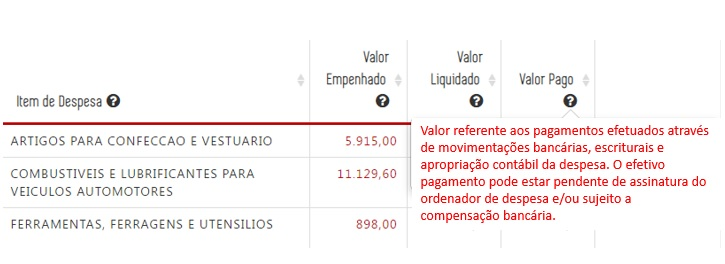
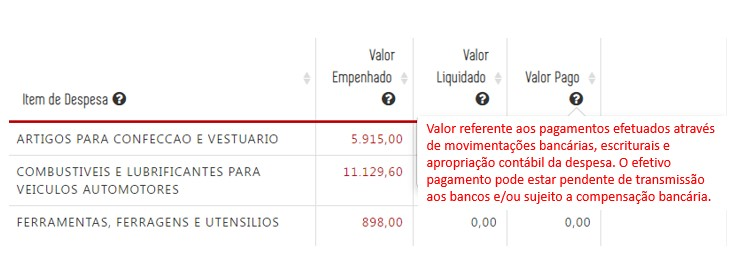
Altera especificação

diff --git a/espec011_valor_pago/espec011_valor-pago.md b/espec011_valor_pago/espec011_valor-pago.md
@@ -1,34 +1,34 @@
 
 # Visão Geral da Intervenção
 
-Essa demanda visa adequar no Portal da Transparência a regra de divulgação dos dados de pagamento, mais especificamente, a inclusão da situação da ordem de pagamento no formulário de detalhamento da despesa, alteração do nome das tabelas e alteração da conceito do valor pago das consultas de Despesa, Diárias e Restos a Pagar.
+Essa demanda visa adequar no Portal da Transparência a regra de divulgação dos dados de pagamento, mais especificamente, alteração do formulário de detalhamento (opção pagamento), alteração do nome das tabelas e alteração da conceito dos _tooltips_ das consultas de despesa, restos a pagar e diárias.
 
-A alteração também será realizada na consulta de Convênios, e será alterada a regra de extração dos dados para a divulgação dos valores pagos.
+A alteração também será realizada na consulta de Convênios, e será alterada a regra de extração dos dados para a divulgação dos valores repassados.
 
 # Motivação / Contexto da Intervenção
 
 De acordo com as regras de registro de Ordem de Pagamento (OP) no SIAFI é possível ocorrer diversas situações identificadas no armazém BO para o campo Situação Ordem de Pagamento, que são:
 
-1. Paga
-2. Acatada pelo banco
-3. Pendente de transmissão aos bancos
-4. Sujeita a compensação bancária
-5. Quitada
-6. Cancelada
-7. Cancelada pelo operador
-8. Cancelada -TED
-9. Transmitida ao banco - Pendente de confirmação
-10. Cancelada sem cancelamento do IRRP retido _TED_
+* Paga
+* Acatada pelo banco
+* Pendente de transmissão aos bancos
+* Sujeita a compensação bancária
+* Quitada
+* Cancelada
+* Cancelada pelo operador
+* Cancelada -TED
+* Transmitida ao banco - Pendente de confirmação
+* Cancelada sem cancelamento do IRRP retido _TED_
 
-Atualmente, o Portal de Transparência apresenta os dados relativos a OP utilizando como variável para divulgação do valor pago a ___Data de Registro___ no SIAFI sem considerar a situação da ordem de pagamento.
+Atualmente, o Portal de Transparência apresenta nas consultas de despesa, diárias e restos a pagar os dados relativos a OP utilizando como variável para divulgação do valor pago a ___Data de Registro___ no SIAFI sem considerar a situação da ordem de pagamento.
 
-Nesse sentido o Portal divulga uma despesa como paga, mas que ainda não percorreu todas as etapas de pagamento, ou seja, assinatura pelo ordenador de despesa, transmissão ao banco e a compensação bancária, o que gera dúvidas para os credores sobre o efetivo depósito dos valores registrados no Portal como pagos.
+Nesse sentido o Portal divulga uma despesa como paga, mas que ainda não percorreu todas as etapas de pagamento, como por exemplo, assinatura pelo ordenador de despesa, transmissão ao banco e a compensação bancária, o que gera dúvidas para os credores sobre o efetivo depósito dos valores registrados no Portal como pagos.
 
-Com o objetivo de melhorar a divulgação de dados sobre pagamentos, sugere-se a alteração no formulário de detalhamento da despesa (opções Empenho e Pagamento) para que apresente a situação da ordem de pagamento, respeitado o prazo de atualização de D+1 estabelecido pelo Decreto Federal n° 7.185, de 2010.
+___Observação___
 
-Além dessa alteração, sugere-se a alteração na descrição do valor pago que consta no glossário interativo das colunas "Valor pago" das consultas de Despesa, Diárias e Restos a Pagar, para que seja esclarecido a sociedade as situações que compõem o campo valor pago.
+Conforme informado pela Diretoria Central de Governança do Sistema - SEF o campo _[Situação da ordem de pagamento- descrição]_ do armazém SIAFI foi tratado em 2019 para permitir que a informação seja extraída de apenas uma [tabela](static/situacao-ordem-pagamento.docx).
 
-``Atualmente, o glossário do portal e o tool tip trazem a seguinte definição: valor referente aos pagamentos efetuados através de movimentações bancárias, escriturais e apropriação contábil da despesa.``
+Ainda segundo essa Diretoria, o campo _[valor pago pendente]_ (campo que será utilizado na nova regra da consulta de convênios de saída) são tratadss as situações: transmitida ao banco – pendente de Confirmação e pendente de transmissão aos bancos.
 
 # Especificação
 
@@ -36,20 +36,18 @@ Além dessa alteração, sugere-se a alteração na descrição do valor pago qu
 
 __1. Alterar descrição do campo "Valor Pago" no glossário interativo__
 
-Alterar a descrição do _tool tip_ da coluna valor pago que passará a exibir o seguinte texto ao passar o cursor sobre o ponto de interrogação:
+Alterar a descrição do _tooltip_ da coluna Valor Pago:
 
-* Valor Pago: Valor referente aos pagamentos efetuados através de movimentações bancárias, escriturais e apropriação contábil da despesa. O efetivo pagamento pode estar pendente de assinatura do ordenador de despesa e/ou sujeito a compensação bancária.
+* __Valor Pago:__ Valor referente aos pagamentos efetuados através de movimentações bancárias, escriturais e apropriação contábil da despesa. O efetivo pagamento pode estar pendente de transmissão ao banco e/ou sujeito a compensação bancária.
 
 ![](static/valor_pago.jpg)
-
-___Observação___: Essas alterações aplicam-se a toda base de dados da consulta de Despesas e Diárias disponíveis no Portal da Transparência.
 
 
 __2. Alterar o texto das colunas Data e Número de Documento__
 
-Alterar o texto e descrição das [colunas] "DATA" e "NUMERO DO DOCUMENTO" das consultas de Despesas e Diárias.
+Alterar o texto e descrição das colunas "Data" e " Número do documento":
 
- __Situação 1:__ ao clicar no [Valor Empenhado](http://www.transparencia.mg.gov.br/despesa-estado/despesa/despesa-orgaos/2020/01-01-2020/31-12-2020/4009/1910/457/20/42/1264408/2771/empenhado), o próximo nível deverá apresentar a informação:
+ __Situação 1:__ ao clicar em [Valor Empenhado](http://www.transparencia.mg.gov.br/despesa-estado/despesa/despesa-orgaos/2020/01-01-2020/31-12-2020/4009/1910/457/20/42/1264408/2771/empenhado), o próximo nível deverá apresentar a informação:
 
   - Data de Registro (no lugar de Data): Data de Registro do documento de empenho no SIAFI (Sistema Integrado de Administração Financeira).
 
@@ -57,16 +55,13 @@ Alterar o texto e descrição das [colunas] "DATA" e "NUMERO DO DOCUMENTO" das c
 
   ![](static/empenho.jpg)
 
+__Situação 2:__ ao clicar em [Valor Liquidado](http://www.transparencia.mg.gov.br/despesa-estado/despesa/despesa-orgaos/2020/01-01-2020/31-12-2020/4009/1910/457/20/42/1264408/2771/liquidado), o próximo nível deverá apresentar a informação:
 
-__Situação 2:__ ao clicar no [Valor Liquidado](http://www.transparencia.mg.gov.br/despesa-estado/despesa/despesa-orgaos/2020/01-01-2020/31-12-2020/4009/1910/457/20/42/1264408/2771/liquidado), o próximo nível deverá apresentar a informação:
+  - Data do Registro (no lugar de Data): Data de registro do documento de liquidação no SIAFI (Sistema Integrado de Administração Financeira).
 
-  - Data do Registro (no lugar de Data): Data de registro da liquidação no SIAFI (Sistema Integrado de Administração Financeira).
+  ![](static/liquidacao.jpg)
 
-  - Número da Liquidação (no lugar de Número Documento): Número de identificação do documento de  liquidação no SIAFI (Sistema Integrado de Administração Financeira);
-
-![](static/liquidacao.jpg)
-
-__Situação 3:__ ao clicar no [Valor Pago](http://www.transparencia.mg.gov.br/despesa-estado/despesa/despesa-orgaos/2020/01-01-2020/31-12-2020/4009/1910/457/20/42/1264408/2771/pago), o próximo nível deverá apresentar a informação:
+__Situação 3:__ ao clicar em [Valor Pago](http://www.transparencia.mg.gov.br/despesa-estado/despesa/despesa-orgaos/2020/01-01-2020/31-12-2020/4009/1910/457/20/42/1264408/2771/pago), o próximo nível deverá apresentar a informação:
 
   - Data de Registro (no lugar de Data): Data de registro da ordem de pagamento no SIAFI (Sistema Integrado de Administração Financeira).
 
@@ -74,74 +69,59 @@ __Situação 3:__ ao clicar no [Valor Pago](http://www.transparencia.mg.gov.br/d
 
 ![](static/pagamentos.jpg)
 
+__3. Alteração do Formulário de Detalhamento__
 
-___Observação___: Essas alterações aplicam-se a toda base de dados da consulta de Despesas e Diárias disponíveis no Portal da Transparência.
+Ao clicar no [Número do documento do Empenho, Número Documento Liquidação ou Número do Documento Pagamento](http://www.transparencia.mg.gov.br/despesa-estado/despesa/despesa-orgaos/2020/01-01-2020/31-12-2020/4009/1910/457/20/42/1264408/2771/empenhado/16/12589445/0/0), o próximo nível deverá apresentar a informação:
 
+* Substituir o texto "Data" para "Data Registro" no formulário de liquidação e pagamento (sem alteração na extração de dados no Armazém);
 
-Abaixo segue as consultas realizadas no armazém SIAFI para cada alteração sugerida.
-
-![](static/nomenclaturas.jpg)
-
-[Planilha Pagamentos](static/pagamentos_2019.xls)
-
-__3. Alteração do Formulário de Detalhamento de Despesa e Diárias__
-
-No formulário de detalhamento da consulta de despesa e diárias, opções de empenho e pagamento, serão alteradas as seguintes informações:
-
- __Situação:__ Ao clicar no [Número do documento do Empenho, Número Documento Liquidação ou Número do Documento Pagamento](http://www.transparencia.mg.gov.br/despesa-estado/despesa/despesa-orgaos/2020/01-01-2020/31-12-2020/4009/1910/457/20/42/1264408/2771/empenhado/16/12589445/0/0), o próximo nível deverá apresentar a informação:
-
-* Substituir o texto "Data" para "Data Registro" no formulário de pagamento (sem alteração na extração de dados no Armazém);
-
-* Incluir a coluna de "Data Pagamento" no formulário de pagamento (após a coluna data de registro).
+* Incluir a coluna de "Situação da Ordem de Pagamento" no formulário de pagamento (após a coluna data de registro).
 
 ![](static/formulario_emp_pag.jpg)
 
-
-__Observação__: Importante ressaltar que o portal deve realizar a atualização do campos [Situação da Ordem de Pagamento] diariamente, pois esse campo não é estático no decorrer do exercício podendo sofrer alterações constantes.
+_
 
 ## Consulta Restos a Pagar
 
-__1. Formulário de Detalhamento de Despesa__
+__1. Alterar descrição do campo "Valor Pago no Ano" no glossário interativo__
 
-No [Formulário de Detalhamento da Despesa](http://transparencia.mg.gov.br/despesa-estado/restos-a-pagar/restospagar-orgaos/2019/3853/546/42/20/3065/130/58/5933374) da Consulta de Restos a Pagar, será alterada a mesma informação já especificada para a consulta de Despesas e Diárias, que é:
+Alterar a descrição do _tooltip_ da coluna "valor pago no ano" da consulta de Restos a Pagar:
 
-1. Substituir o texto "Data" para "Data Registro" (sem alteração na extração de dados no Armazém);
-
-2. Incluir a coluna de "Data Pagamento" no formulário de pagamento (após a coluna data de registro).
-
-![](static/formulario_emp_pag.jpg)
-
-  __Observação__: Importante ressaltar que o portal deve realizar a atualização do campos [Situação da Ordem de Pagamento] diariamente, pois esse campo não é estático no decorrer do exercício podendo sofrer alterações constantes.
-
-__2. Alterar descrição do campo "Valor Pago no Ano" no glossário interativo__
-
-Alterar a descrição do _tooltip_ da coluna "valor pago no ano" da consulta de Restos a Pagar, que passará a exibir o seguinte texto ao passar o cursor sobre o ponto de interrogação:
-
-  - Valor Pago no Ano: Soma do valor de restos a pagar processados e não processados referentes aos pagamentos efetuados através de movimentações bancárias, escriturais e apropriação contábil da despesa. O efetivo pagamento pode estar pendente de assinatura do ordenador de despesa e/ou sujeito a compensação bancária.
+  - __Valor Pago no Ano:__ Soma do valor de restos a pagar processados e não processados referentes aos pagamentos efetuados através de movimentações bancárias, escriturais e apropriação contábil da despesa. O efetivo pagamento pode estar pendente de transmissão aos bancos e/ou sujeito a compensação bancária.
 
 ![](static/valorpagonoano.jpg)
 
+__2. Formulário de Detalhamento__
+
+No [Formulário de Detalhamento da Consulta de Restos a pagar](http://transparencia.mg.gov.br/despesa-estado/restos-a-pagar/restospagar-orgaos/2019/3853/546/42/20/3065/130/58/5933374) será alterada a mesma informação já especificada para a consulta de Despesas e Diárias, que é:
+
+1. Substituir o texto "Data" para "Data Registro" (sem alteração na extração de dados no Armazém);
+
+2. Incluir a coluna de "Situação da Ordem de Pagamento" no formulário de pagamento (após a coluna data de registro).
+
+![](static/formulario_emp_pag.jpg)
+
+
 ## Observações Gerais
 
-1. O campo [Situação da Ordem de Pagamento] no Portal deve refletir a mesma situação da OP que consta no Armazém. Como já mencionado, esse campo não é estático, podendo sofrer várias alterações no decorrer no ano. Nesse sentido, é necessário atualização diária dessa informação no Portal da Transparência.
+1. O campo [Situação da Ordem de Pagamento] no Portal deve refletir a mesma situação da OP que consta no Armazém. Conforme informado pela SEF, esse campo não é estático, podendo sofrer várias alterações no decorrer no ano.
 
 Campo a ser utilizado no Armazém:
 
 ![](static/situacao-op-siafi.jpg)
 
-
 ## Consulta Convênios de Saída
 
 __1. Alterar descrição do campo "Valor Repassado pelo Concedente/Órgão ou Entidade Estadual Parceiro" no glossário interativo__
 
-Alterar a descrição do _tooltip_ da coluna "valor Repassado pelo Concedente/Órgão ou Entidade Estadual Parceiro" da consulta de Convênios/Parcerias Saída de Recursos, que passará a exibir o seguinte texto ao passar o cursor sobre o ponto de interrogação:
+Alterar a descrição do _tooltip_ da coluna "valor Repassado pelo Concedente/Órgão ou Entidade Estadual Parceiro":
 
-  - __Valor Repassado pelo Concedente/Órgão ou Entidade Estadual Parceiro:__ Valor financeiro repassado pelo concedente/órgão ou entidade estadual parceiro ao convenente / Organização da Sociedade Civil (OSC) parceria, referente ao(s) convênios(s)/ parceria(s) firmado(s) entre as partes por meio de pagamento via SIAFI. Abrange o valor do concedente / órgão ou entidade estadual parceiro, das emendas parlamentares e outras fontes. O efetivo pagamento pode estar sujeito a compensação bancária.
+  * __Valor Repassado pelo Concedente/Órgão ou Entidade Estadual Parceiro:__ Valor financeiro repassado pelo concedente/órgão ou entidade estadual parceiro ao convenente / Organização da Sociedade Civil (OSC) parceria, referente ao(s) convênios(s)/ parceria(s) firmado(s) entre as partes por meio de pagamento via SIAFI. Abrange o valor do concedente / órgão ou entidade estadual parceiro, das emendas parlamentares e outras fontes. O efetivo pagamento pode estar sujeito a compensação bancária.
 
 ![](static/valorrepassadoalter.jpg)
 
 
-__2. Alterar Formulário de Detalhamento do Convênio__
+__2. Alterar Formulário de Detalhamento__
 
 Para obter o real valor repassado deve-se utilizar a fórmula: (Valor Pago Financeiro - Valor Pago pendente =  Valor repassado) conforme campos do armazém BO.
 
@@ -159,11 +139,3 @@ O Portal apresenta como repassado o valor total de R$ 35.000,00 no entanto, conf
 ![](static/convenio-op-1547-.png)
 
 Na extração dos dados do armazém para a divulgação do Valor Repassado pelo Concedente/Órgão ou Entidade Estadual Parceiro, será considerado para divulgação dos valores repassados o Valor Pago Financeiro menos o Valor Pago Pendente, nas segintes condições:
-
-
-# Sugestões
-
-Na especificação da consulta de Despesa foi sugerido acrescentar o campo [Situação da ordem de pagamento] no formulário de detalhamento.
-Outra hipótese pode ser a exibição das ordens de pagamento que apresentem apenas as situação definidas pela DTA, como por exemplo: Acatada pelo Banco, Sujeita a Compensação Bancária e Paga. Nesse caso, o Portal irá apresentar apenas as OPs que efetivamente foram pagas e/ou transmitidas ao banco.
-
-Assim não seria necessário a inclusão de mais campos no formulário de detalhamento.
